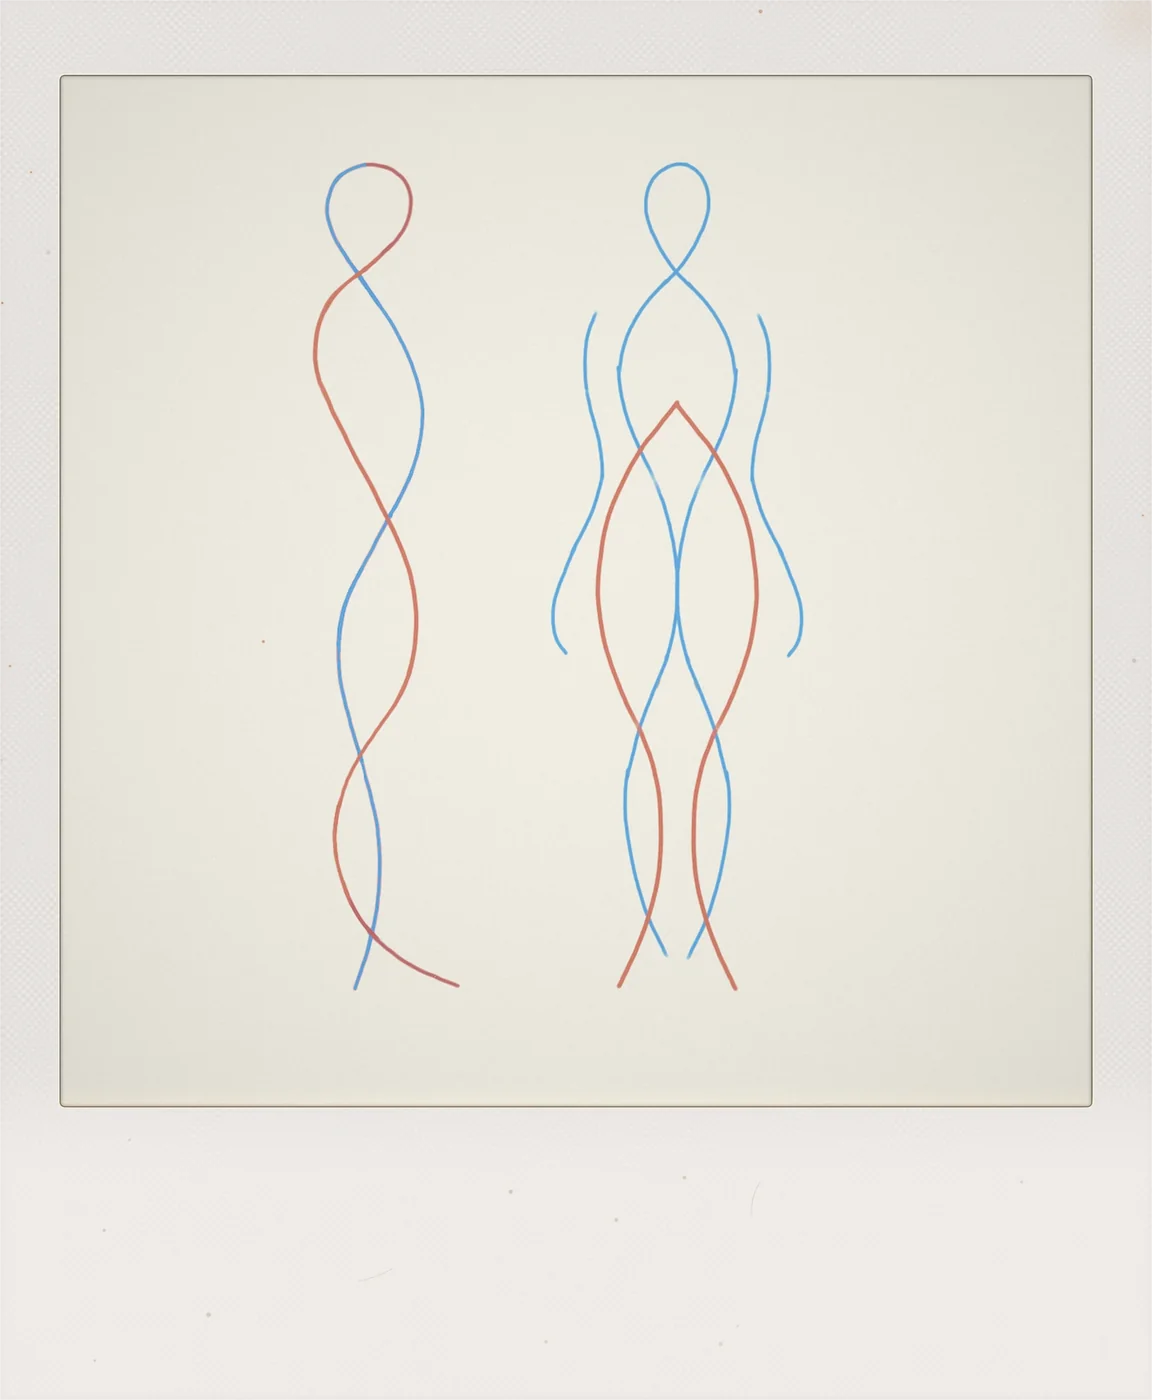
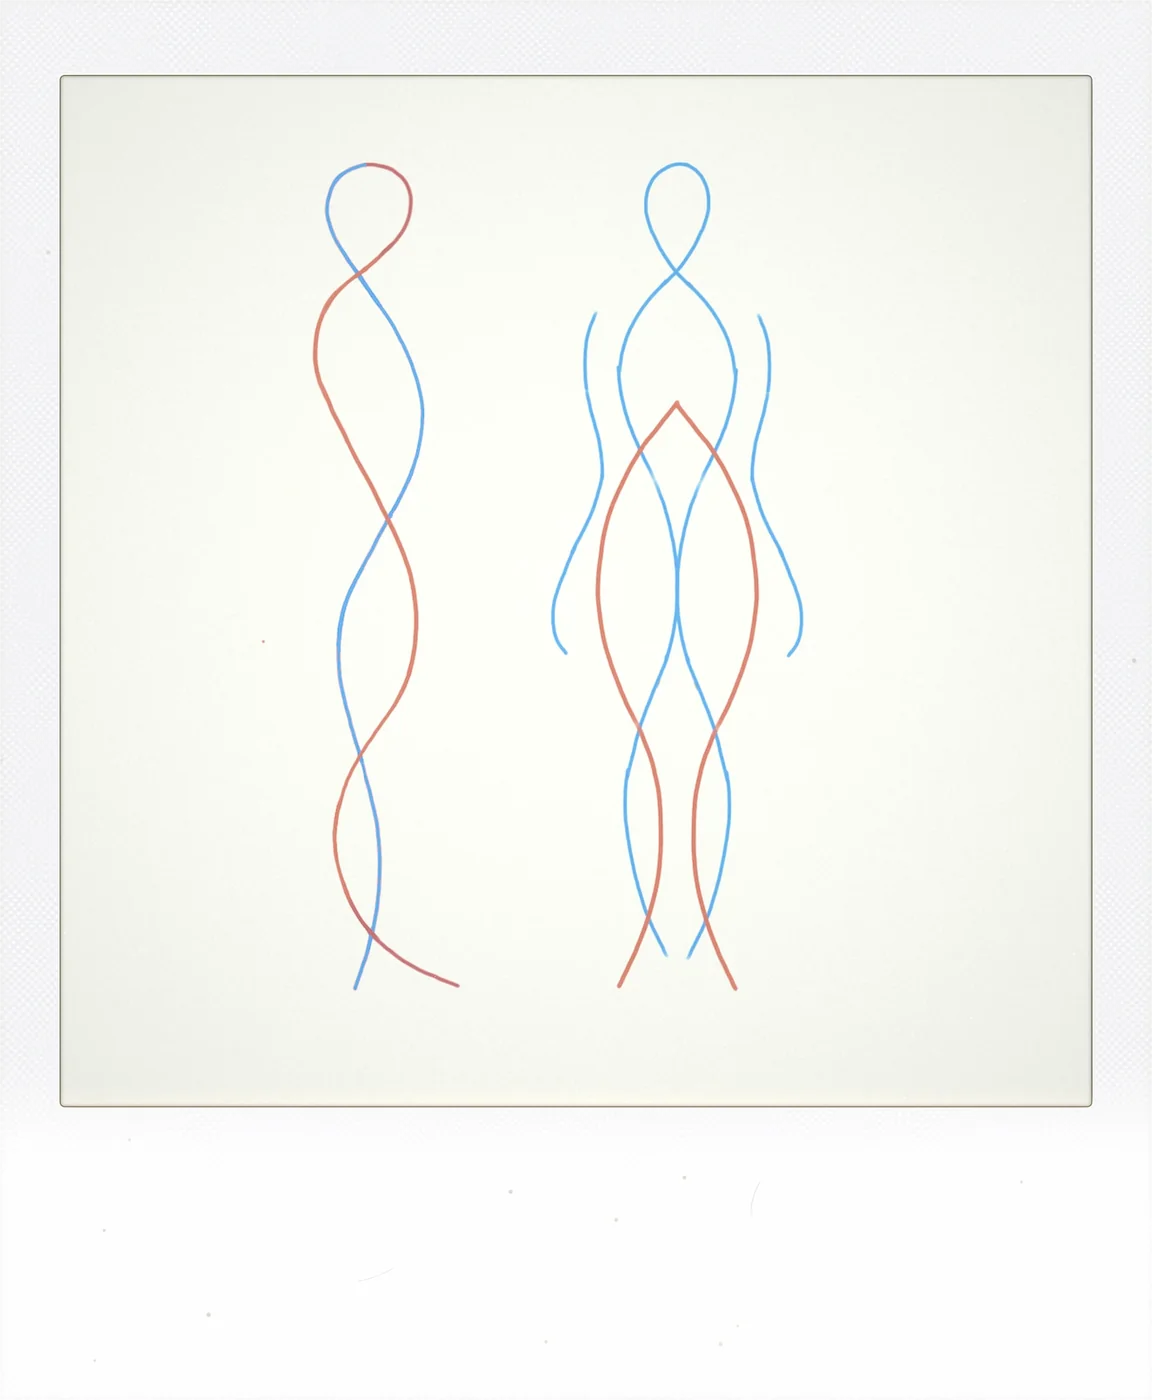
site: the polaroids baked — paper = the photo print's white (colorlab 'Match photo print': gain r 1.063 g 1.081 b 1.099 on the cards, alpha kept; band median 240 236 232 → 254) and the top-right dirt gone (owner 2026-10-01: 'bake it in, remove those dirt spots form the top right angle'): brew/polaro
Claude-Session: https://claude.ai/code/session_01BwdMHdB32XbmeguTBRMXKg

diff --git a/proto/site.html b/proto/site.html
@@ -3665,6 +3665,9 @@ stacks.push(makeStack($('macbook'), { name: 'macbook', idp: 'mb-', images: MACBO
    brew/polaroid scan renders, 2400 × 2918 → 1645 × 2000 webp). POL_KNOBS: no radius / border at home or in the viewer (square
    corners, the prints carry their own edge); the measured shadows at home and in the viewer (POL_FLOOR / POL_CONTACT, below); pivot .5: with a pile of two the
    back card takes the hover ramp (at the default 1.5, clamped to N − 1 = 1, neither card would fan). */
+/* 2026-10-01 (owner: 'can you do it the same color as that single pic there' … 'bake it in, remove those dirt spots from the top right angle'):
+   the cards' paper = the photo print's white (colorlab.js 'Match photo print': gain r 1.063 g 1.081 b 1.099, baked into the webps + variants)
+   and no corner smudge / rust dots (brew/polaroid --set wear_smudge=0 --set wear_rust=0, out/polaroid-*-clean.png; everything else bit-identical) */
 const POLAROIDS = [
   { id: 'neo',   src: '../assets/neo/neo-card.webp',   w: 1645, h: 2000 },    // no inscription since 2026-09-28 (owner: "rm love from text from the pic with a head"; inked = neo-card-inked-old.webp)
   { id: 'trees', src: '../assets/neo/trees-card.webp', w: 1645, h: 2000 },
